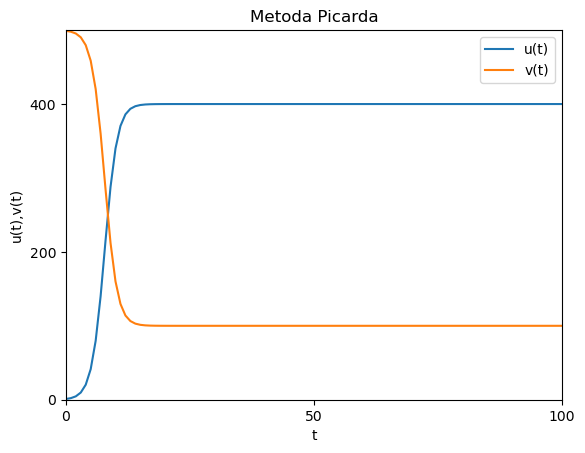
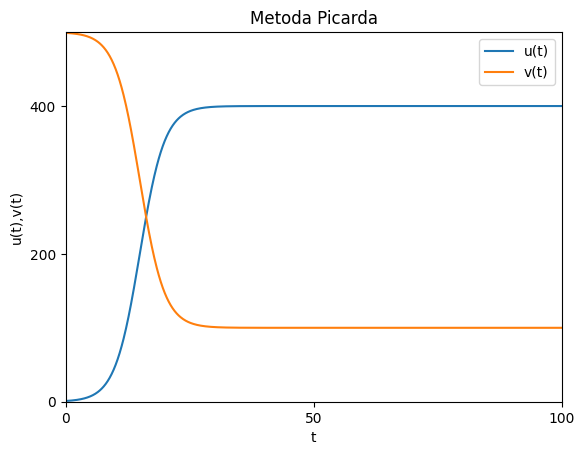
fixes newton and picard methods & t_table init

Changed region(s): [[0.0, 0.0, 0.9863, 0.9272]]

diff --git a/lab2/zad1.py b/lab2/zad1.py
@@ -15,14 +15,14 @@ def f(t, u):
     return (alpha * u - beta * u**2)
 
 def trapezoidal_picard():
-    t = np.arange(tmax + dt)
+    t = np.arange(0, tmax + dt, dt)
     u = np.zeros(len(t))
     u[0] = u0
     z = N - u
     for i in range(1, len(t)):
         un = u[i-1]
         for j in range(max_iter):
-            u[i] = un + dt/2 * (f(t[i-1], un) + f(t[i], u[i]))
+            u[i] = u[i-1] + dt/2 * (f(t[i], un) + f(t[i-1], u[i-1]))
             if abs(u[i] - un) < TOL:
                 break
             un = u[i]
@@ -30,14 +30,14 @@ def trapezoidal_picard():
     return t, u, z
 
 def trapezoidal_newton():
-    t = np.arange(tmax + dt)
+    t = np.arange(0, tmax + dt, dt)
     u = np.zeros(len(t))
     u[0] = u0
     z = N - u
     for i in range(1, len(t)):
         un = u[i-1]
         for j in range(max_iter):
-            F = lambda x: x - un - dt/2 * (f(t[i-1], un) + f(t[i], x))
+            F = lambda x: x - u[i-1] - dt/2 * (f(t[i-1], u[i-1]) + f(t[i], x))
             dF = lambda x: 1 - dt/2 * beta * (N - 2 * x)
             u[i] = un - F(un) / dF(un)
             if abs(u[i] - un) < TOL:
